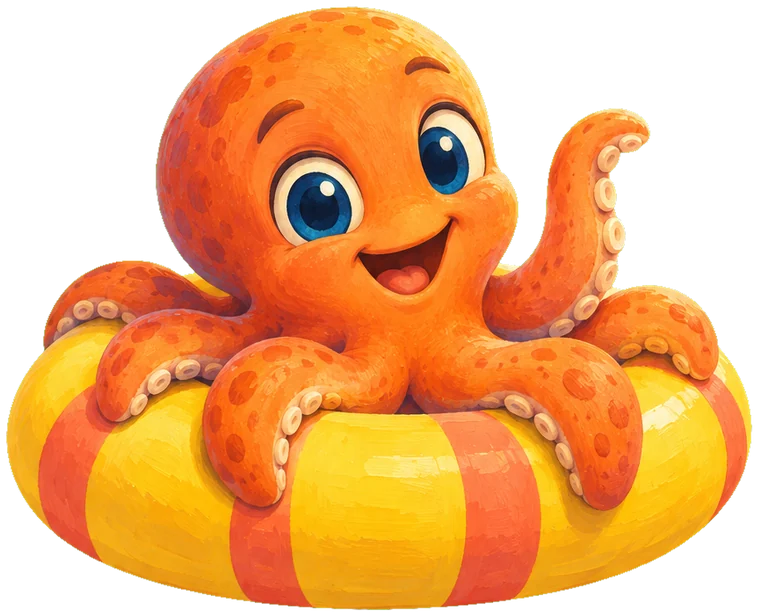
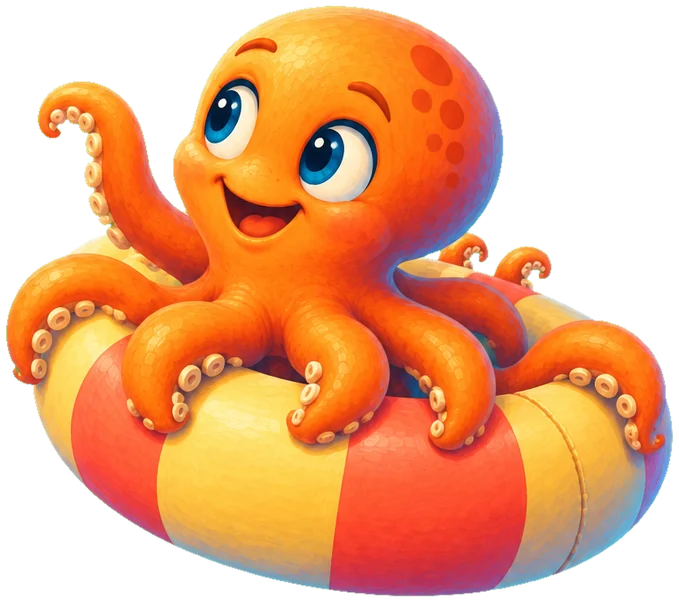
Transitions d’activité v3 : images Astra retravaillées, bulles de plongée, Poulpy kitesurfeur
- Astra (GPT-6, effort faible) a critiqué la v2 puis réécrit les 18 prompts avec une fiche
  personnage verrouillée et une zone de titre calme ; 2 variantes par image, Astra a choisi
  sur montage téléphone (docs/transitions-direction-astra-v2.json, transitions-choix-astra-v2.json).
- Kayak : nouveau décor en grotte (titre lisible). Kitesurf : Poulpy sur sa planche en second
  calque, les lignes relient l’aile à sa barre.
- Plongée : chapelet de bulles du détendeur, colonnes de bulles, grosses bulles floues au premier
  plan (sprites pré-rendus) ; plus de bulles dans l’ambiance de l’app.
- Images versionnées (?v=3) pour contourner le cache du service worker.

diff --git a/activity-transition.js b/activity-transition.js
@@ -4,13 +4,13 @@
    2. geste : le décor et Poulpy (calques séparés, assets/transitions/{id}.webp et {id}-fg.webp) bougent en parallaxe ;
    3. le titre et le nombre de spots apparaissent ;
    4. une forme propre à l’activité révèle l’app déjà thémée.
-   Tout est animé en transform / opacity / clip-path + un canvas léger (12 particules au plus) : 60 i/s visés sur téléphone.
+   Tout est animé en transform / opacity / clip-path + un canvas léger (12 particules au plus, ~40 bulles-sprites pour la plongée) : 60 i/s visés sur téléphone.
    Un toucher passe directement à la révélation. Mouvement réduit : fondu de 250 ms. */
 (() => {
   'use strict';
   /* Position du premier plan dans le cadre 900×1350 (scripts/build-transition-layers.py → layers.json). */
   let LAYERS={};
-  fetch('assets/transitions/layers.json').then(r=>r.ok?r.json():{}).then(j=>{LAYERS=j||{};}).catch(()=>{});
+  fetch("assets/transitions/layers.json?v=3").then(r=>r.ok?r.json():{}).then(j=>{LAYERS=j||{};}).catch(()=>{});
 
   /* in : forme du cache ; out : forme de la révélation ; bg : [x,y,échelle] départ → arrivée (px à 390 de large) ;
      fg : [x,y,rotation,échelle] entrée → repos, fgOut : [x,y] pendant la sortie ; bob : flottaison (px) ;
@@ -22,8 +22,8 @@
     paddle:{tint:'#38d8d0',veil:'#0f9e86',in:'rise',out:'wave-down',bg:[[0,0,1.08],[-9,0,1.06]],fg:[[-75,45,-2,.93],[16,-8,3,1.03]],fgOut:[35,-10],fx:'wake',line:1},
     kayak:{tint:'#1455d9',veil:'#4c9a25',in:'sides',out:'slit',bg:[[0,0,1.04],[0,0,1.12]],fg:[[25,125,7,.96],[-12,0,-3,1]],fgOut:[-8,-10],fx:'glints'},
     snorkeling:{tint:'#38d8d0',veil:'#0a9aa2',in:'rise',out:'wave-down',bg:[[0,0,1.08],[0,-12,1.06]],fg:[[95,25,7,.96],[-18,-8,-4,1]],fgOut:[-40,-10],bob:5,fx:'bubbles',caustics:1,gauge:3},
-    plongee:{tint:'#08255b',veil:'#08255b',in:'drop',out:'hole',bg:[[0,0,1.1],[0,-24,1.05]],fg:[[30,-75,-8,.95],[0,18,3,1]],fgOut:[0,40],fx:'bubbles',gauge:18,ticks:1},
-    kitesurf:{tint:'#ff7564',veil:'#ee5741',in:'diag',out:'diag-out',bg:[[0,0,1.1],[-14,0,1.08]],fg:[[130,-50,20,.9],[-40,-70,-8,1]],fgOut:[220,-160],fx:'kitelines',fgTop:1},
+    plongee:{tint:'#08255b',veil:'#08255b',in:'drop',out:'hole',bg:[[0,0,1.1],[0,-24,1.05]],fg:[[30,-75,-8,.95],[0,18,3,1]],fgOut:[0,40],fx:'dive',gauge:18,ticks:1},
+    kitesurf:{tint:'#ff7564',veil:'#ee5741',in:'diag',out:'diag-out',bg:[[0,0,1.1],[-14,0,1.08]],fg:[[130,-50,20,.9],[-40,-70,-8,1]],fgOut:[220,-160],fx:'kitelines',fgTop:1,fg2:[[-120,60,-10,.94],[10,0,4,1]],fg2Out:[-60,40]},
     windsurf:{tint:'#ffe16b',veil:'#7a44d8',in:'sail',out:'diag-out',bg:[[0,0,1.1],[-16,0,1.08]],fg:[[-105,40,-9,.95],[22,-5,2,1]],fgOut:[260,-20],bounce:.6,fx:'wake',segments:1}
   };
   const T={cover:420,gesture:1450,title:2200,end:2800};
@@ -36,7 +36,7 @@
     if(!cache.has(src)){const i=new Image();i.decoding='async';i.src=src;cache.set(src,(i.decode?i.decode():new Promise((r,j)=>{i.onload=r;i.onerror=j;})).then(()=>i).catch(()=>null));}
     return cache.get(src);
   }
-  const load=id=>Promise.all([img(`assets/transitions/${id}.webp`),img(`assets/transitions/${id}-fg.webp`)]);
+  const load=id=>Promise.all([img(`assets/transitions/${id}.webp?v=3`),img(`assets/transitions/${id}-fg.webp?v=3`),FX[id]?.fg2?img(`assets/transitions/${id}-fg2.webp?v=3`):null]);
   /* Les calques se préparent en tâche de fond, une fois l’app au calme. */
   (window.requestIdleCallback||setTimeout)(()=>Object.keys(FX).forEach((id,i)=>setTimeout(()=>load(id),i*500)),{timeout:6000});
 
@@ -83,14 +83,43 @@
 
   /* ---------- Détails dessinés (canvas, 12 éléments au plus) ---------- */
   function detail(kind,W,H){
-    const R=Math.random,list=[];let last=null;
+    const R=Math.random,list=[];
     for(let i=0;i<12;i++)list.push({t0:R(),x:R(),y:R(),s:R(),v:R()});
-    return (ctx,g,now,anchor)=>{
+    /* Bulles : sprite pré-rendu (contour, reflet, cœur translucide), puis simples drawImage. */
+    let sprite=null,soft=null,deep=null;
+    if(kind==='bubbles'||kind==='dive'){
+      const mk=(blur)=>{const c=document.createElement('canvas');c.width=c.height=64;const x=c.getContext('2d');
+        if(blur){const gr=x.createRadialGradient(32,32,4,32,32,30);gr.addColorStop(0,'rgba(255,255,255,.05)');gr.addColorStop(.72,'rgba(210,245,255,.16)');gr.addColorStop(.9,'rgba(255,255,255,.34)');gr.addColorStop(1,'rgba(255,255,255,0)');x.fillStyle=gr;x.fillRect(0,0,64,64);return c;}
+        const gr=x.createRadialGradient(26,24,2,32,32,30);gr.addColorStop(0,'rgba(255,255,255,.28)');gr.addColorStop(.6,'rgba(170,235,255,.1)');gr.addColorStop(1,'rgba(170,235,255,.02)');
+        x.beginPath();x.arc(32,32,29,0,7);x.fillStyle=gr;x.fill();x.lineWidth=3;x.strokeStyle='rgba(255,255,255,.75)';x.stroke();
+        x.beginPath();x.ellipse(22,20,7,4.5,-.7,0,7);x.fillStyle='rgba(255,255,255,.95)';x.fill();
+        x.beginPath();x.arc(42,44,3,0,7);x.fillStyle='rgba(255,255,255,.5)';x.fill();return c;};
+      sprite=mk(false);soft=mk(true);
+      if(kind==='dive'){deep=[];
+        /* 3 familles : chapelet du détendeur, colonnes sur les côtés, grosses bulles floues au premier plan. */
+        for(let i=0;i<16;i++)deep.push({f:'reg',t0:i/16,s:.35+R()*.65,w:R()*9});
+        for(let i=0;i<22;i++){const c=i%4;deep.push({f:'col',c,t0:R(),s:.2+R()*.8,v:.55+R()*.6,w:R()*9});}
+        for(let i=0;i<5;i++)deep.push({f:'big',t0:R(),x:R(),s:R(),v:.9+R()*.5});
+      }
+    }
+    const bub=(ctx,x,y,r,a,img)=>{ctx.globalAlpha=a;ctx.drawImage(img||sprite,x-r,y-r,r*2,r*2);ctx.globalAlpha=1;};
+    return (ctx,g,now,anchor,anchor2)=>{
       ctx.clearRect(0,0,W,H);if(!anchor)return;
       const [ax,ay,aw,ah]=anchor;
       if(kind==='bubbles'){
-        for(const q of list.slice(0,9)){const side=q.x<.5?q.x*.22:.78+q.x*.22,sp=.5+q.v;const y=H*(1.05-((g*sp+q.t0)%1.15));const x=W*side+Math.sin(now/400+q.t0*9)*6,r=2+q.s*5;
-          ctx.beginPath();ctx.arc(x,y,r,0,7);ctx.strokeStyle='rgba(255,255,255,.6)';ctx.lineWidth=1.2;ctx.stroke();ctx.beginPath();ctx.arc(x-r*.3,y-r*.3,r*.25,0,7);ctx.fillStyle='rgba(255,255,255,.85)';ctx.fill();}
+        for(const q of list.slice(0,9)){const side=q.x<.5?q.x*.22:.78+q.x*.22,sp=.5+q.v;const y=H*(1.05-((g*sp+q.t0)%1.15));const x=W*side+Math.sin(now/400+q.t0*9)*6;bub(ctx,x,y,3+q.s*6,.9);}
+      }else if(kind==='dive'){
+        const sec=now/1000;
+        /* Colonnes lointaines : petites, lentes, sur les bords, hors zone du titre. */
+        const cols=[W*.07,W*.2,W*.83,W*.94];
+        for(const q of deep){
+          if(q.f==='col'){const k=(sec*q.v*.32+q.t0)%1,y=H*(1.08-k*1.2),x=cols[q.c]+Math.sin(sec*2.2+q.w)*(4+k*6);bub(ctx,x,y,1.6+q.s*3.4,.35+.45*Math.sin(k*Math.PI));}
+          else if(q.f==='reg'){ /* Chapelet qui s’échappe du détendeur de Poulpy et grossit en montant. */
+            const k=(sec*.55+q.t0)%1,ox=ax+aw*.72,oy=ay+ah*.36;const y=oy-k*(oy+30),x=ox+Math.sin(sec*3+q.w+k*6)*(3+k*14)+k*18;
+            bub(ctx,x,y,(2+q.s*4)*(1+k*1.4),Math.min(1,k*6)*(1-Math.max(0,(k-.85)/.15)));}
+          else{ /* Premier plan : grosses bulles floues, rapides, parallaxe forte. */
+            const k=(sec*q.v*.42+q.t0)%1,y=H*(1.15-k*1.35),x=(q.x<.5?q.x*.3:.7+q.x*.3)*W+Math.sin(sec*1.4+q.t0*9)*12;bub(ctx,x,y,14+q.s*22,.8,soft);}
+        }
       }else if(kind==='foam'){
         for(const q of list.slice(0,8)){const k=(g*1.6+q.t0)%1;const x=ax+aw*(.2+q.x*.5)-k*aw*.7,y=ay+ah*(.75+q.y*.2)+k*20*(q.s-.5);
           ctx.beginPath();ctx.arc(x,y,(3+q.s*5)*(1-k),0,7);ctx.fillStyle=`rgba(255,245,223,${.9*(1-k)})`;ctx.fill();}
@@ -105,7 +134,8 @@
         for(const q of list.slice(0,3)){const x=(q.x*W+g*90*(q.v+.5))%W,y=H*(.62+q.y*.3);const a=.35+.35*Math.sin(now/260+q.t0*9);ctx.beginPath();ctx.ellipse(x,y,14+q.s*16,2.5,0,0,7);ctx.fillStyle=`rgba(255,245,223,${a})`;ctx.fill();}
         for(let i=0;i<2;i++){const k=(g*1.2+i*.5)%1;ctx.beginPath();ctx.arc(ax+aw*(i?.95:.05),ay+ah*.8,8+k*22,Math.PI*.1,Math.PI*.9);ctx.strokeStyle=`rgba(255,255,255,${.7*(1-k)})`;ctx.lineWidth=2;ctx.stroke();}
       }else if(kind==='kitelines'){
-        const bx=W*.18,by=H*1.02,k1=[ax+aw*.25,ay+ah*.78],k2=[ax+aw*.7,ay+ah*.88];ctx.lineWidth=1.3;ctx.strokeStyle='rgba(8,37,91,.55)';
+        /* Lignes : de l’aile jusqu’à la barre tenue par Poulpy (haut du second calque), sinon vers le bas de l’écran. */
+        const bx=anchor2?anchor2[0]+anchor2[2]*.28:W*.18,by=anchor2?anchor2[1]+anchor2[3]*.12:H*1.02,k1=[ax+aw*.25,ay+ah*.78],k2=[ax+aw*.7,ay+ah*.88];ctx.lineWidth=1.3;ctx.strokeStyle='rgba(8,37,91,.55)';
         for(const [x,y] of [k1,k2]){ctx.beginPath();ctx.moveTo(x,y);ctx.quadraticCurveTo((x+bx)/2+18,(y+by)/2,bx,by);ctx.stroke();}
         for(const q of list.slice(0,3)){const k=(g*1.5+q.t0)%1,y=H*(.25+q.y*.5),x=-80+k*(W+160);if(x>W*.25&&x<W*.75&&y>H*.3&&y<H*.6)continue;ctx.beginPath();ctx.moveTo(x,y);ctx.quadraticCurveTo(x+40,y-6,x+80,y);ctx.strokeStyle=`rgba(255,255,255,${.55*Math.sin(k*Math.PI)})`;ctx.lineWidth=2;ctx.stroke();}
       }
@@ -123,14 +153,15 @@
     const n=count(id);
     const el=document.createElement('div');el.className='act-tr';el.dataset.act=id;el.setAttribute('aria-hidden','true');
     el.style.setProperty('--tint',fx.tint);el.style.setProperty('--veil',fx.veil);
-    el.innerHTML=`<div class="act-tr-scene"></div>${fx.caustics?'<div class="act-tr-caustics"></div>':''}<img class="act-tr-fg" alt=""><canvas class="act-tr-fx"></canvas><div class="act-tr-veil"></div>
+    el.innerHTML=`<div class="act-tr-scene"></div>${fx.caustics?'<div class="act-tr-caustics"></div>':''}<img class="act-tr-fg" alt="">${fx.fg2?'<img class="act-tr-fg act-tr-fg2" alt="">':''}<canvas class="act-tr-fx"></canvas><div class="act-tr-veil"></div>
       <div class="act-tr-title"><img class="act-tr-badge" src="assets/poulpy/icons/${id}.jpg" alt=""><b>${sport.label}</b>${fx.line?'<i class="act-tr-line"></i>':''}${n?`<small>${n} spots t’attendent</small>`:''}${fx.gauge?`<span class="act-tr-gauge">${fx.ticks?'<em></em><em></em><em></em>':''}<span>0</span> m</span>`:''}${fx.segments?'<span class="act-tr-seg"><em></em><em></em><em></em></span>':''}</div>`;
     const live=document.getElementById('a11yLive');if(live)live.textContent=`${sport.label} : ${n} spots`;
-    const [bgImg,fgImg]=await Promise.race([load(id),new Promise(r=>setTimeout(()=>r([null,null]),reduced()?150:380))]);
-    const scene=el.querySelector('.act-tr-scene'),fgEl=el.querySelector('.act-tr-fg'),veil=el.querySelector('.act-tr-veil'),title=el.querySelector('.act-tr-title'),cv=el.querySelector('.act-tr-fx');
+    const [bgImg,fgImg,fg2Img]=await Promise.race([load(id),new Promise(r=>setTimeout(()=>r([null,null,null]),reduced()?150:380))]);
+    const scene=el.querySelector('.act-tr-scene'),fgEl=el.querySelector('.act-tr-fg:not(.act-tr-fg2)'),fg2El=el.querySelector('.act-tr-fg2'),veil=el.querySelector('.act-tr-veil'),title=el.querySelector('.act-tr-title'),cv=el.querySelector('.act-tr-fx');
     if(bgImg)scene.style.backgroundImage=`url(${bgImg.src})`;
     const box=LAYERS[id];
     if(fgImg&&box)fgEl.src=fgImg.src;else fgEl.remove();
+    const box2=LAYERS[id+'#2'];if(fg2El){if(fg2Img&&box2)fg2El.src=fg2Img.src;else fg2El.remove();}
 
     if(reduced()){
       document.body.append(el);el.classList.add('is-fade');
@@ -151,6 +182,12 @@
       const cx=Math.max(w/2+6,Math.min(W-w/2-6,fx0+(box.x+box.w/2)*fw));
       const y=top?Math.max(H*.05,fy0+box.y*fh):Math.min(H*.95,fy0+(box.y+box.h)*fh)-h;
       fgRect=[cx-w/2,y,w,h];Object.assign(fgEl.style,{left:fgRect[0]+'px',top:fgRect[1]+'px',width:fgRect[2]+'px',height:fgRect[3]+'px'});}
+    let fg2Rect=null;
+    if(fg2El&&fg2El.isConnected){
+      const k=Math.min(W*.7/(box2.w*fw),H*.34/(box2.h*fh),1.2),w=box2.w*fw*k,h=box2.h*fh*k;
+      const cx=Math.max(w/2+6,Math.min(W-w/2-6,fx0+(box2.x+box2.w/2)*fw)),y=Math.min(H*.95,fy0+(box2.y+box2.h)*fh)-h;
+      fg2Rect=[cx-w/2,y,w,h];Object.assign(fg2El.style,{left:fg2Rect[0]+'px',top:fg2Rect[1]+'px',width:w+'px',height:h+'px'});
+    }
     cv.width=W*dpr;cv.height=H*dpr;const ctx=cv.getContext('2d');ctx.scale(dpr,dpr);
     const draw=detail(fx.fx,W,H);
     const gauge=title.querySelector('.act-tr-gauge>span'),ticks=[...title.querySelectorAll('.act-tr-gauge em,.act-tr-seg em')],line=title.querySelector('.act-tr-line');
@@ -188,7 +225,16 @@
           fgEl.style.opacity=clamp(g*5).toFixed(3);
           anchor=[fgRect[0]+x*u,fgRect[1]+y*u,fgRect[2]*sc,fgRect[3]*sc];
         }else anchor=[W*.3,H*.62,W*.4,H*.2];
-        draw(ctx,g,ms,anchor);
+        let anchor2=null;
+        if(fg2Rect){
+          const [f0,f1]=fx.fg2,k=easeOut(clamp(g*1.3));const live=clamp(g*2.2-.6);
+          let x=lerp(f0[0],f1[0],k)+Math.sin(ms/650)*4*live,y=lerp(f0[1],f1[1],k)+Math.sin(ms/400)*5*live,rot=lerp(f0[2],f1[2],k)+Math.sin(ms/500)*2*live,sc=lerp(f0[3],f1[3],k);
+          x+=fx.fg2Out[0]*re;y+=fx.fg2Out[1]*re;
+          fg2El.style.transform=`translate3d(${(x*u).toFixed(2)}px,${(y*u).toFixed(2)}px,0) rotate(${rot.toFixed(2)}deg) scale(${sc.toFixed(4)})`;
+          fg2El.style.opacity=clamp(g*5).toFixed(3);
+          anchor2=[fg2Rect[0]+x*u,fg2Rect[1]+y*u,fg2Rect[2]*sc,fg2Rect[3]*sc];
+        }
+        draw(ctx,g,ms,anchor,anchor2);
         /* 3. Titre. */
         const ti=clamp((t-(T.gesture-80))/300),to=clamp((t-T.title-60)/260);
         title.style.opacity=(ti*(1-to)).toFixed(3);

diff --git a/activity-theme.js b/activity-theme.js
@@ -21,8 +21,8 @@
   }
   function size(){if(!cv)return;const d=Math.min(2,devicePixelRatio||1);W=innerWidth;H=innerHeight;cv.width=W*d;cv.height=H*d;ctx.setTransform(d,0,0,d,0,0);}
   function seed(kind){
-    const r=Math.random,n={bubbles:20,sparkle:14,foam:16,drift:12,wind:12}[kind]||0;list=[];
-    for(let i=0;i<n;i++)list.push({x:r()*W,y:r()*H,s:1.5+r()*4,v:.2+r()*.6,p:r()*7,l:50+r()*130,a:.25+r()*.45});
+    const r=Math.random,n=cur==='plongee'?30:({bubbles:20,sparkle:14,foam:16,drift:12,wind:12}[kind]||0);list=[];
+    for(let i=0;i<n;i++){const big=cur==='plongee'&&i%7===0;list.push({x:r()*W,y:r()*H,s:big?6+r()*5:1.5+r()*4,v:big?.7+r()*.4:.2+r()*.6,p:r()*7,l:50+r()*130,a:.25+r()*.45});}
   }
   function frame(now){
     raf=requestAnimationFrame(frame);
@@ -61,7 +61,7 @@
     const meta=document.querySelector('meta[name=theme-color]');
     if(id!==cur){
       cur=id;stop();list=[];
-      if(id){root.dataset.act=id;root.style.setProperty('--act-scene',`url("assets/transitions/${id}.webp")`);}
+      if(id){root.dataset.act=id;root.style.setProperty('--act-scene',`url("assets/transitions/${id}.webp?v=3")`);}
       else{delete root.dataset.act;root.style.removeProperty('--act-scene');}
       if(meta)meta.content=id?COLORS[id]:'#1a4fd6';
       root.classList.add('act-swapped');clearTimeout(set.t);set.t=setTimeout(()=>root.classList.remove('act-swapped'),900);
@@ -69,7 +69,7 @@
     chip(id);start();
   }
   /* Aperçu dans le choix d’activité : le fond suit la carte touchée. */
-  function preview(id){const o=document.getElementById('onb');if(!o)return;if(id&&COLORS[id]){o.dataset.act=id;o.style.setProperty('--act-scene',`url("assets/transitions/${id}.webp")`);}else{delete o.dataset.act;}}
+  function preview(id){const o=document.getElementById('onb');if(!o)return;if(id&&COLORS[id]){o.dataset.act=id;o.style.setProperty('--act-scene',`url("assets/transitions/${id}.webp?v=3")`);}else{delete o.dataset.act;}}
   addEventListener('load',()=>{try{set(typeof activeSport!=='undefined'?activeSport:null);}catch(_){}});
   /* Zoom de page bloqué (Safari iOS ignore user-scalable=no) ; les vues qui zooment elles-mêmes sont épargnées. */
   const ZOOMABLE='.omap,.og-canvas,.maplibregl-map,.leaflet-container,.spot-gallery,.voyage,.immersion-mode,[data-zoomable]';

diff --git a/index.html b/index.html
@@ -442,11 +442,11 @@
 <script src="ocean-map-model.js?v=e87c7f985412"></script>
 <script src="ocean-globe.js?v=95e63fe7120a"></script>
 <script src="ocean-map.js?v=1c0b6dffb41f"></script>
-<script src="activity-theme.js?v=1eb5f9ee7cb1"></script>
-<script src="activity-transition.js?v=fbb38e96659a"></script>
+<script src="activity-theme.js?v=0a10166717ff"></script>
+<script src="activity-transition.js?v=8985b9570dae"></script>
 <script src="spot-photos.js?v=7db07d494e54"></script>
 <script src="progression.js?v=573fcb54b5ba"></script>
-<script src="app.js?v=ae539ffcf0e4"></script>
+<script src="app.js?v=0132a742e4ed"></script>
 <script src="private-spots.js?v=683221818ade"></script>
 <script src="poulpy-knowledge.js?v=e0ec814bd70b"></script>
 <script src="design.js?v=7f90dbe39d66"></script>

diff --git a/app.js b/app.js
@@ -470,7 +470,7 @@ function syncWorldUI(){
     top.style.setProperty('--region-photo',`url("${photo}")`);
     /* Choix de la destination après une activité : l’en-tête prend le décor de l’activité. */
     const act=!on&&activeSport&&window.OceanTransition?.FX[activeSport]?activeSport:'';
-    top.dataset.act=act;if(act)top.style.setProperty('--act-scene',`url("assets/transitions/${act}.webp")`);
+    top.dataset.act=act;if(act)top.style.setProperty('--act-scene',`url("assets/transitions/${act}.webp?v=3")`);
   }
   var ttl=document.getElementById('spotsTitle'), sub=document.getElementById('spotsSub');
   if(ttl) ttl.textContent = spotCountry||w?.lab || (spotWorld==='all'?'Trouve ton spot.':'Le monde est à toi.');

diff --git a/scripts/build-transition-layers.py b/scripts/build-transition-layers.py
@@ -2,7 +2,7 @@
 """Calques des transitions d'activité (direction artistique GPT-6 Astra, images ChatGPT).
 Entrée : un dossier avec <activité>-bg.png (décor portrait) et <activité>-fg.png (premier plan sur vert #00FF00).
 Sortie : assets/transitions/<activité>.webp (décor 900×1350, aussi utilisé par les en-têtes thémés)
-         assets/transitions/<activité>-fg.webp (premier plan détouré, recadré)
+         assets/transitions/<activité>-fg.webp (premier plan détouré, recadré ; <activité>-fg2.png → -fg2.webp)
          assets/transitions/layers.json (position du premier plan dans le cadre, en fractions).
 Usage : python3 scripts/build-transition-layers.py <dossier>"""
 import json, sys, pathlib
@@ -34,16 +34,19 @@ def key(img):
 def main(src):
     src = pathlib.Path(src); layers = {}
     for bg in sorted(src.glob('*-bg.png')):
-        act = bg.name[:-7]; fg = src / f'{act}-fg.png'
+        act = bg.name[:-7]
         Image.open(bg).convert('RGB').resize((W, H), Image.LANCZOS).save(OUT / f'{act}.webp', quality=80, method=6)
-        if not fg.exists(): continue
-        im = key(Image.open(fg)).resize((W, H), Image.LANCZOS)
-        box = im.getchannel('A').point(lambda v: 255 if v > 24 else 0).getbbox()
-        if not box: continue
-        p = 6; box = (max(0, box[0]-p), max(0, box[1]-p), min(W, box[2]+p), min(H, box[3]+p))
-        im.crop(box).save(OUT / f'{act}-fg.webp', quality=86, method=6)
-        layers[act] = {'x': round(box[0]/W, 4), 'y': round(box[1]/H, 4), 'w': round((box[2]-box[0])/W, 4), 'h': round((box[3]-box[1])/H, 4)}
-        print(act, layers[act])
+        # Premier plan, et second premier plan éventuel (kitesurf : l’aile + Poulpy).
+        for suffix, name in (('fg', act), ('fg2', act + '#2')):
+            fg = src / f'{act}-{suffix}.png'
+            if not fg.exists(): continue
+            im = key(Image.open(fg)).resize((W, H), Image.LANCZOS)
+            box = im.getchannel('A').point(lambda v: 255 if v > 24 else 0).getbbox()
+            if not box: continue
+            p = 6; box = (max(0, box[0]-p), max(0, box[1]-p), min(W, box[2]+p), min(H, box[3]+p))
+            im.crop(box).save(OUT / f'{act}-{suffix}.webp', quality=86, method=6)
+            layers[name] = {'x': round(box[0]/W, 4), 'y': round(box[1]/H, 4), 'w': round((box[2]-box[0])/W, 4), 'h': round((box[3]-box[1])/H, 4)}
+            print(name, layers[name])
     old = OUT / 'layers.json'
     merged = json.loads(old.read_text()) if old.exists() else {}
     merged.update(layers)
